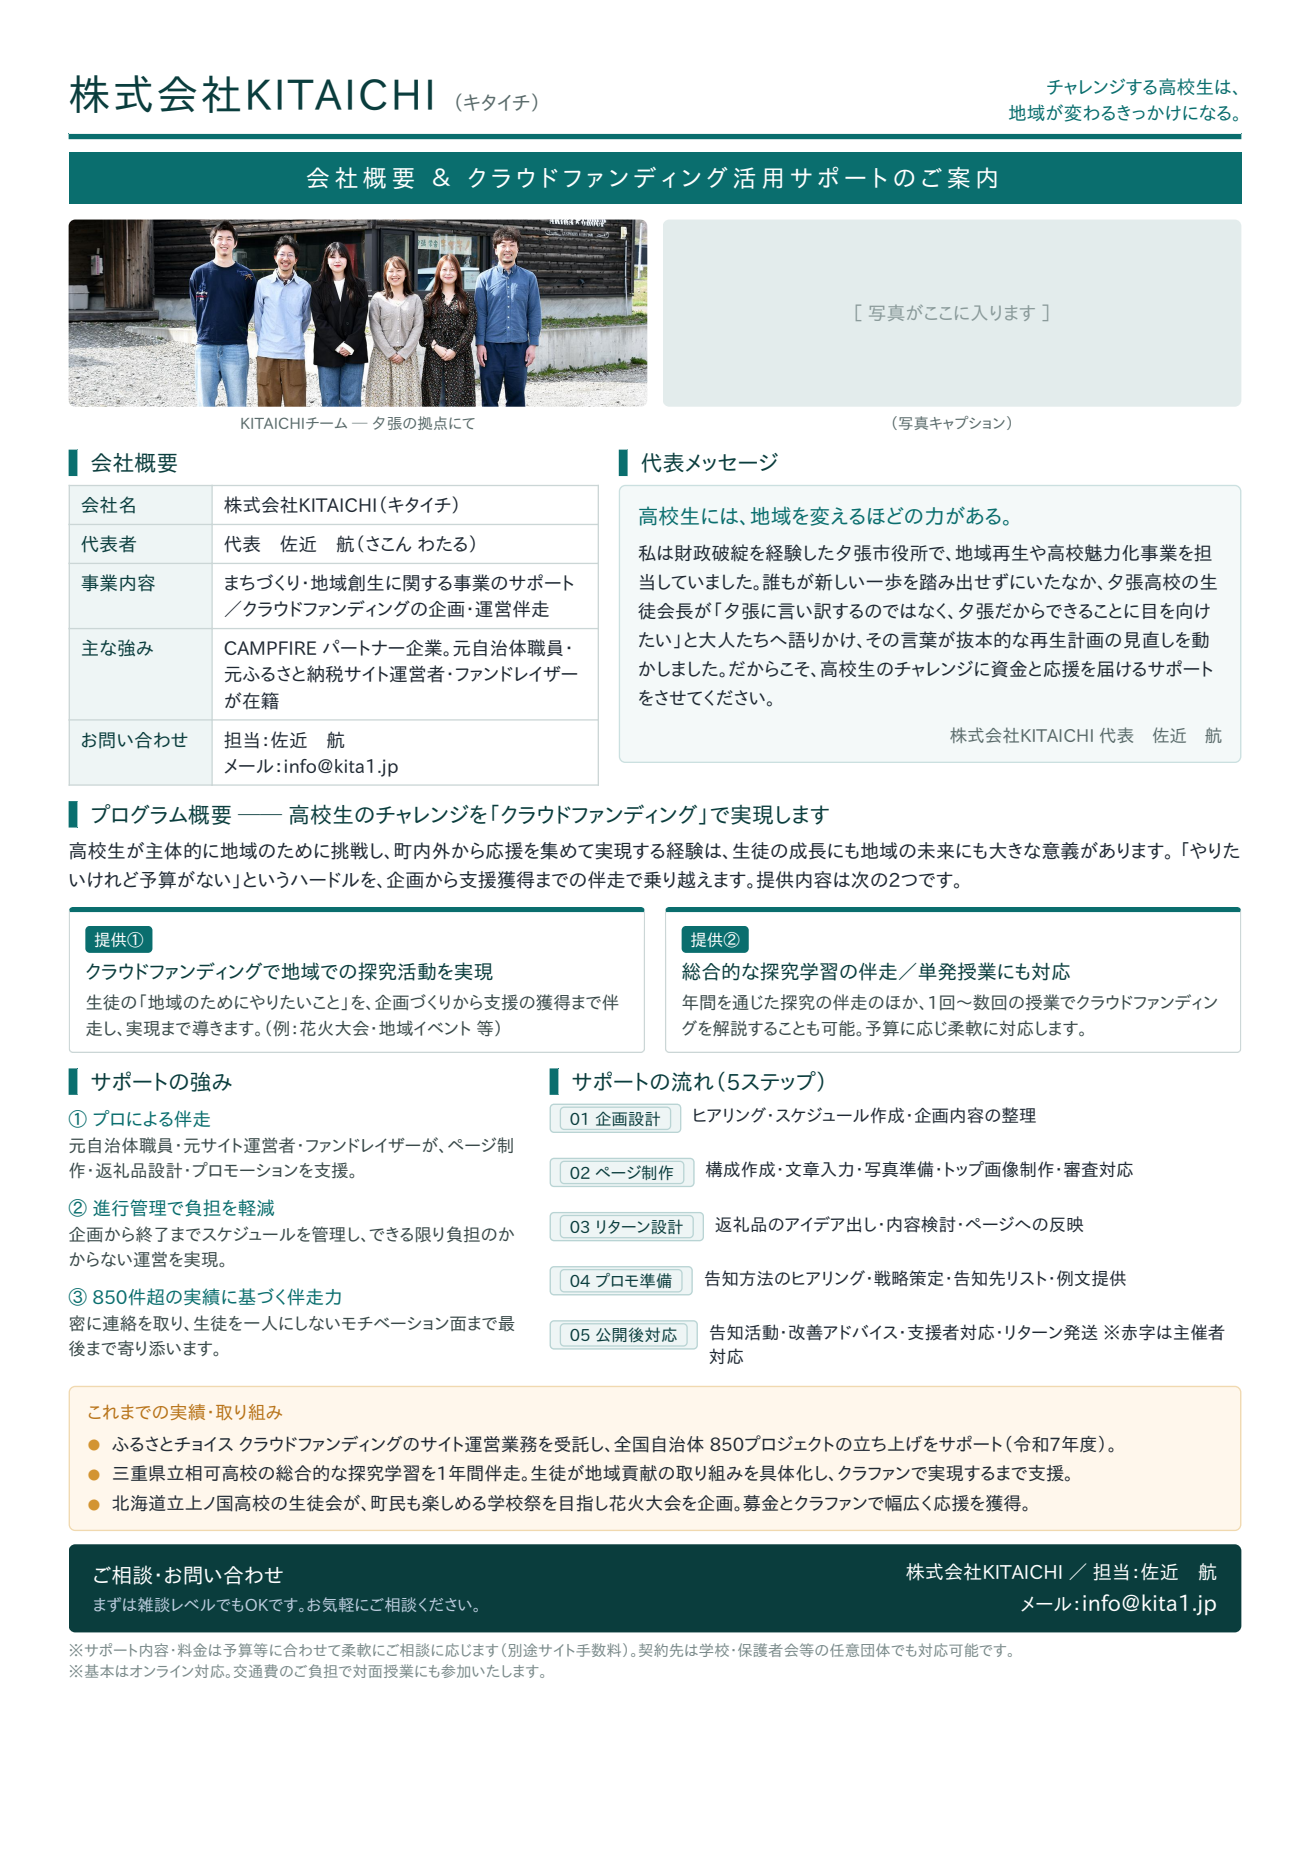
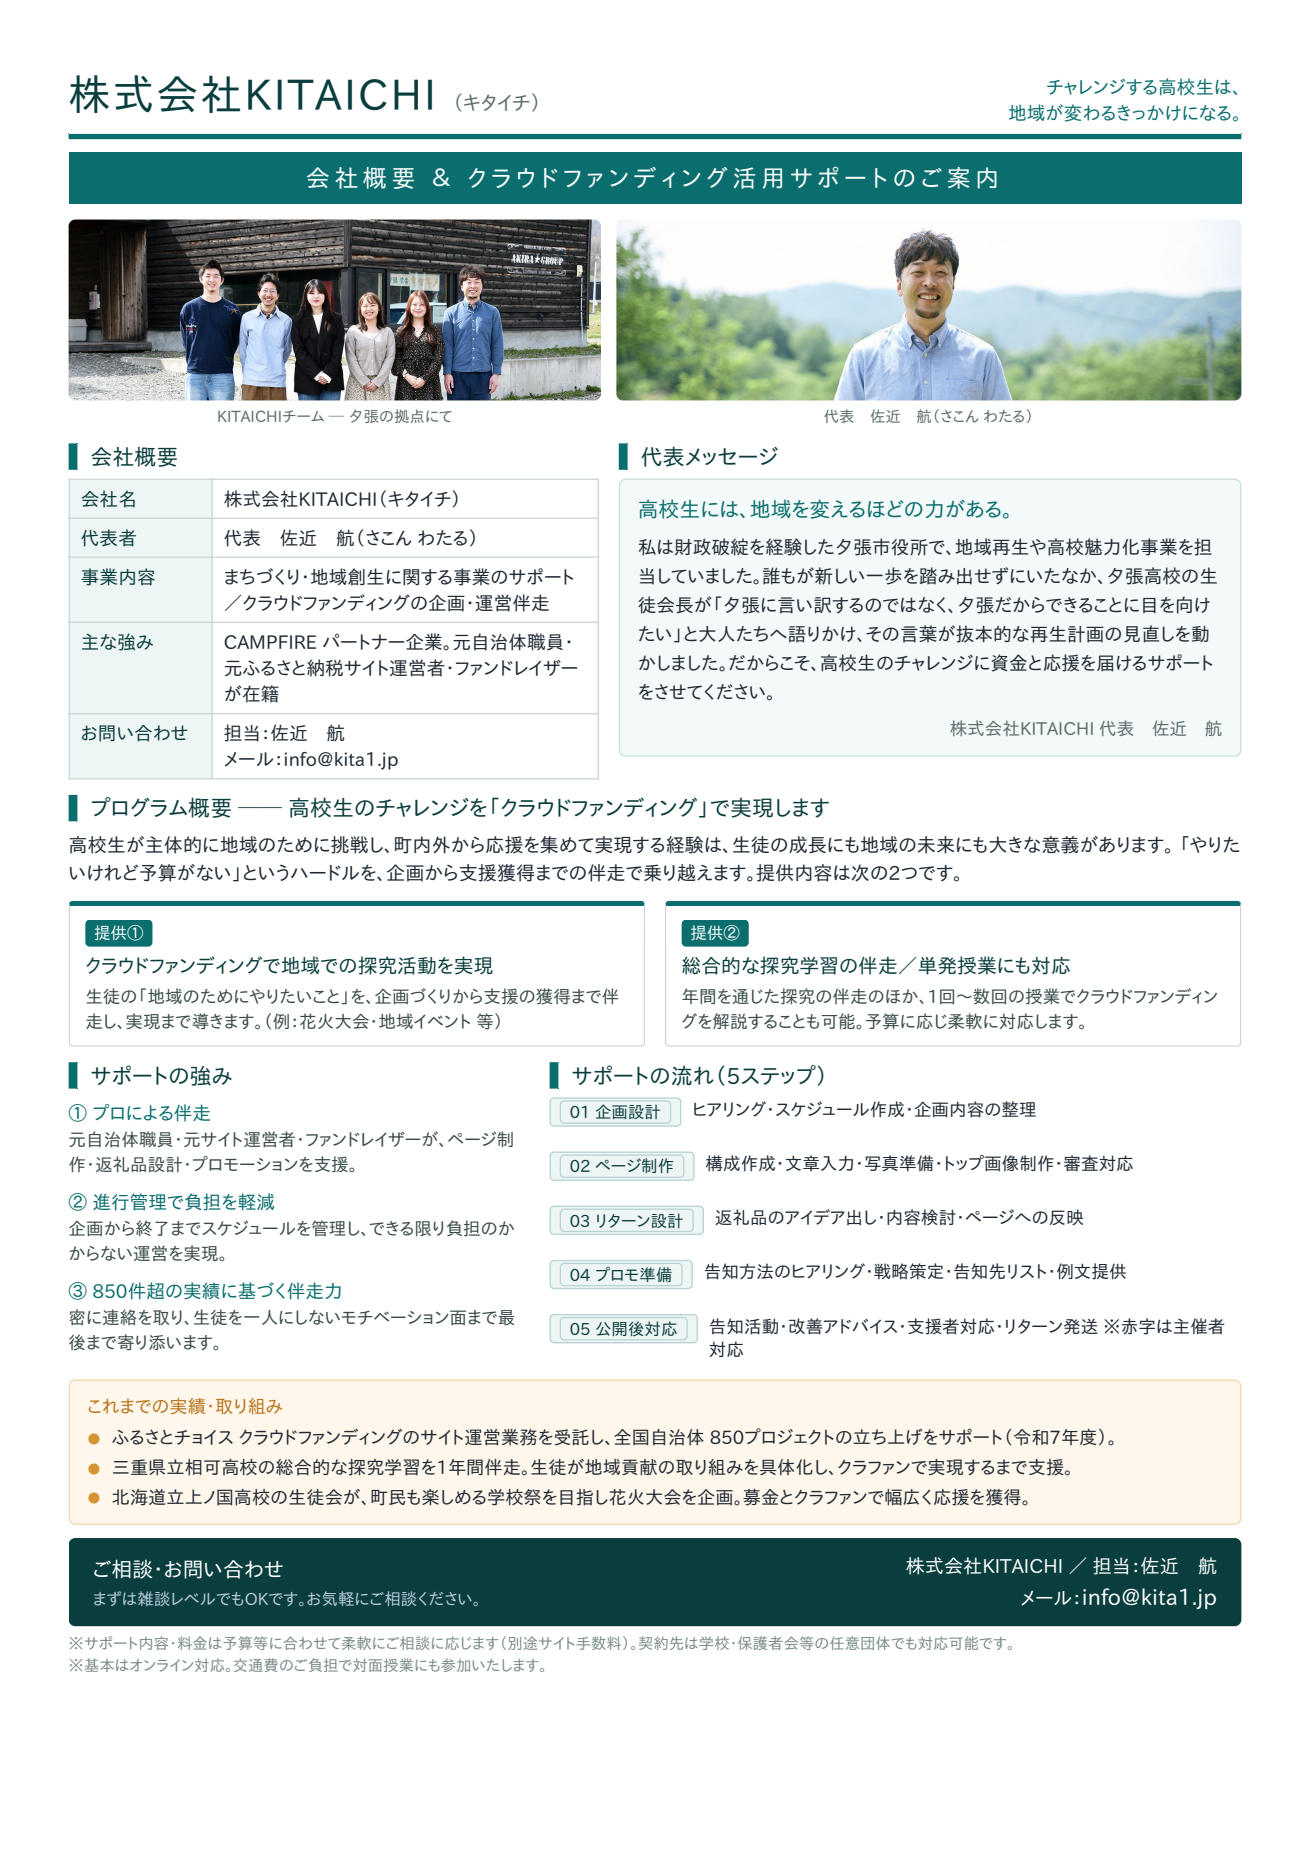
上部に写真2枚（チーム写真＋代表写真）を配置したA4資料を追加

Changed region(s): [[0.0305, 0.0923, 0.9466, 0.9228]]

diff --git a/materials/variant_T.html b/materials/variant_T.html
@@ -177,10 +177,11 @@
   .contact .c-info b { font-size: 10pt; }
   .note { font-size: 7pt; color: #7a8a8a; margin-top: 3pt; line-height: 1.4; }
 
-  .topphotos { display:flex; gap:7pt; margin:0 0 7pt; }
-  .topphotos .tp-cell { width:50%; }
+  .topphotos { display:flex; gap:7pt; margin:0 0 7pt; align-items:flex-start; }
+  .topphotos .tp-cell.left  { width:46%; }
+  .topphotos .tp-cell.right { width:54%; }
   .topphotos img, .topphotos .ph {
-    width:100%; height:30mm; object-fit:cover; display:block;
+    width:100%; height:29mm; object-fit:cover; display:block;
     border-radius:3pt; }
   .topphotos .ph { background:#e3ecec; color:#8a9a9a; font-size:8.5pt;
     display:flex; align-items:center; justify-content:center; }
@@ -197,8 +198,8 @@
   <div class="doctitle">会社概要 ＆ クラウドファンディング活用サポートのご案内</div>
 
   <div class="topphotos">
-    <div class="tp-cell"><img src="DSC_0289.JPG" alt=""><div class="pcap">KITAICHIチーム ─ 夕張の拠点にて</div></div>
-    <div class="tp-cell"><div class="ph">［ 写真がここに入ります ］</div><div class="pcap">（写真キャプション）</div></div>
+    <div class="tp-cell left"><img src="DSC_0289.JPG" style="object-position:center 30%;" alt=""><div class="pcap">KITAICHIチーム ─ 夕張の拠点にて</div></div>
+    <div class="tp-cell right"><img src="プロフィール写真.jpg" style="object-position:center 22%;" alt=""><div class="pcap">代表　佐近　航（さこん わたる）</div></div>
   </div>
 
   <!-- 上段：会社概要 ＋ 代表メッセージ -->

diff --git a/materials/build_top2.py b/materials/build_top2.py
@@ -9,19 +9,21 @@ p1 = sys.argv[1] if len(sys.argv) > 1 else None
 p2 = sys.argv[2] if len(sys.argv) > 2 else None
 
 
-def cell(path, caption):
+def cell(path, caption, pos='center', cls=''):
     if path:
-        inner = f'<img src="{path}" alt="">'
+        style = f' style="object-position:{pos};"' if pos else ''
+        inner = f'<img src="{path}"{style} alt="">'
     else:
         inner = '<div class="ph">［ 写真がここに入ります ］</div>'
-    return f'<div class="tp-cell">{inner}<div class="pcap">{caption}</div></div>'
+    return f'<div class="tp-cell {cls}">{inner}<div class="pcap">{caption}</div></div>'
 
 
 top_css = '''
-  .topphotos { display:flex; gap:7pt; margin:0 0 7pt; }
-  .topphotos .tp-cell { width:50%; }
+  .topphotos { display:flex; gap:7pt; margin:0 0 7pt; align-items:flex-start; }
+  .topphotos .tp-cell.left  { width:46%; }
+  .topphotos .tp-cell.right { width:54%; }
   .topphotos img, .topphotos .ph {
-    width:100%; height:30mm; object-fit:cover; display:block;
+    width:100%; height:29mm; object-fit:cover; display:block;
     border-radius:3pt; }
   .topphotos .ph { background:#e3ecec; color:#8a9a9a; font-size:8.5pt;
     display:flex; align-items:center; justify-content:center; }
@@ -29,8 +31,8 @@ top_css = '''
 '''
 
 band = ('  <div class="topphotos">\n    '
-        + cell(p1, 'KITAICHIチーム ─ 夕張の拠点にて') + '\n    '
-        + cell(p2, '（写真キャプション）') + '\n  </div>\n\n')
+        + cell(p1, 'KITAICHIチーム ─ 夕張の拠点にて', pos='center 30%', cls='left') + '\n    '
+        + cell(p2, '代表　佐近　航（さこん わたる）', pos='center 22%', cls='right') + '\n  </div>\n\n')
 
 html = base.replace('</style>', top_css + '</style>')
 # insert the photo band right after the doctitle, before the first .cols
